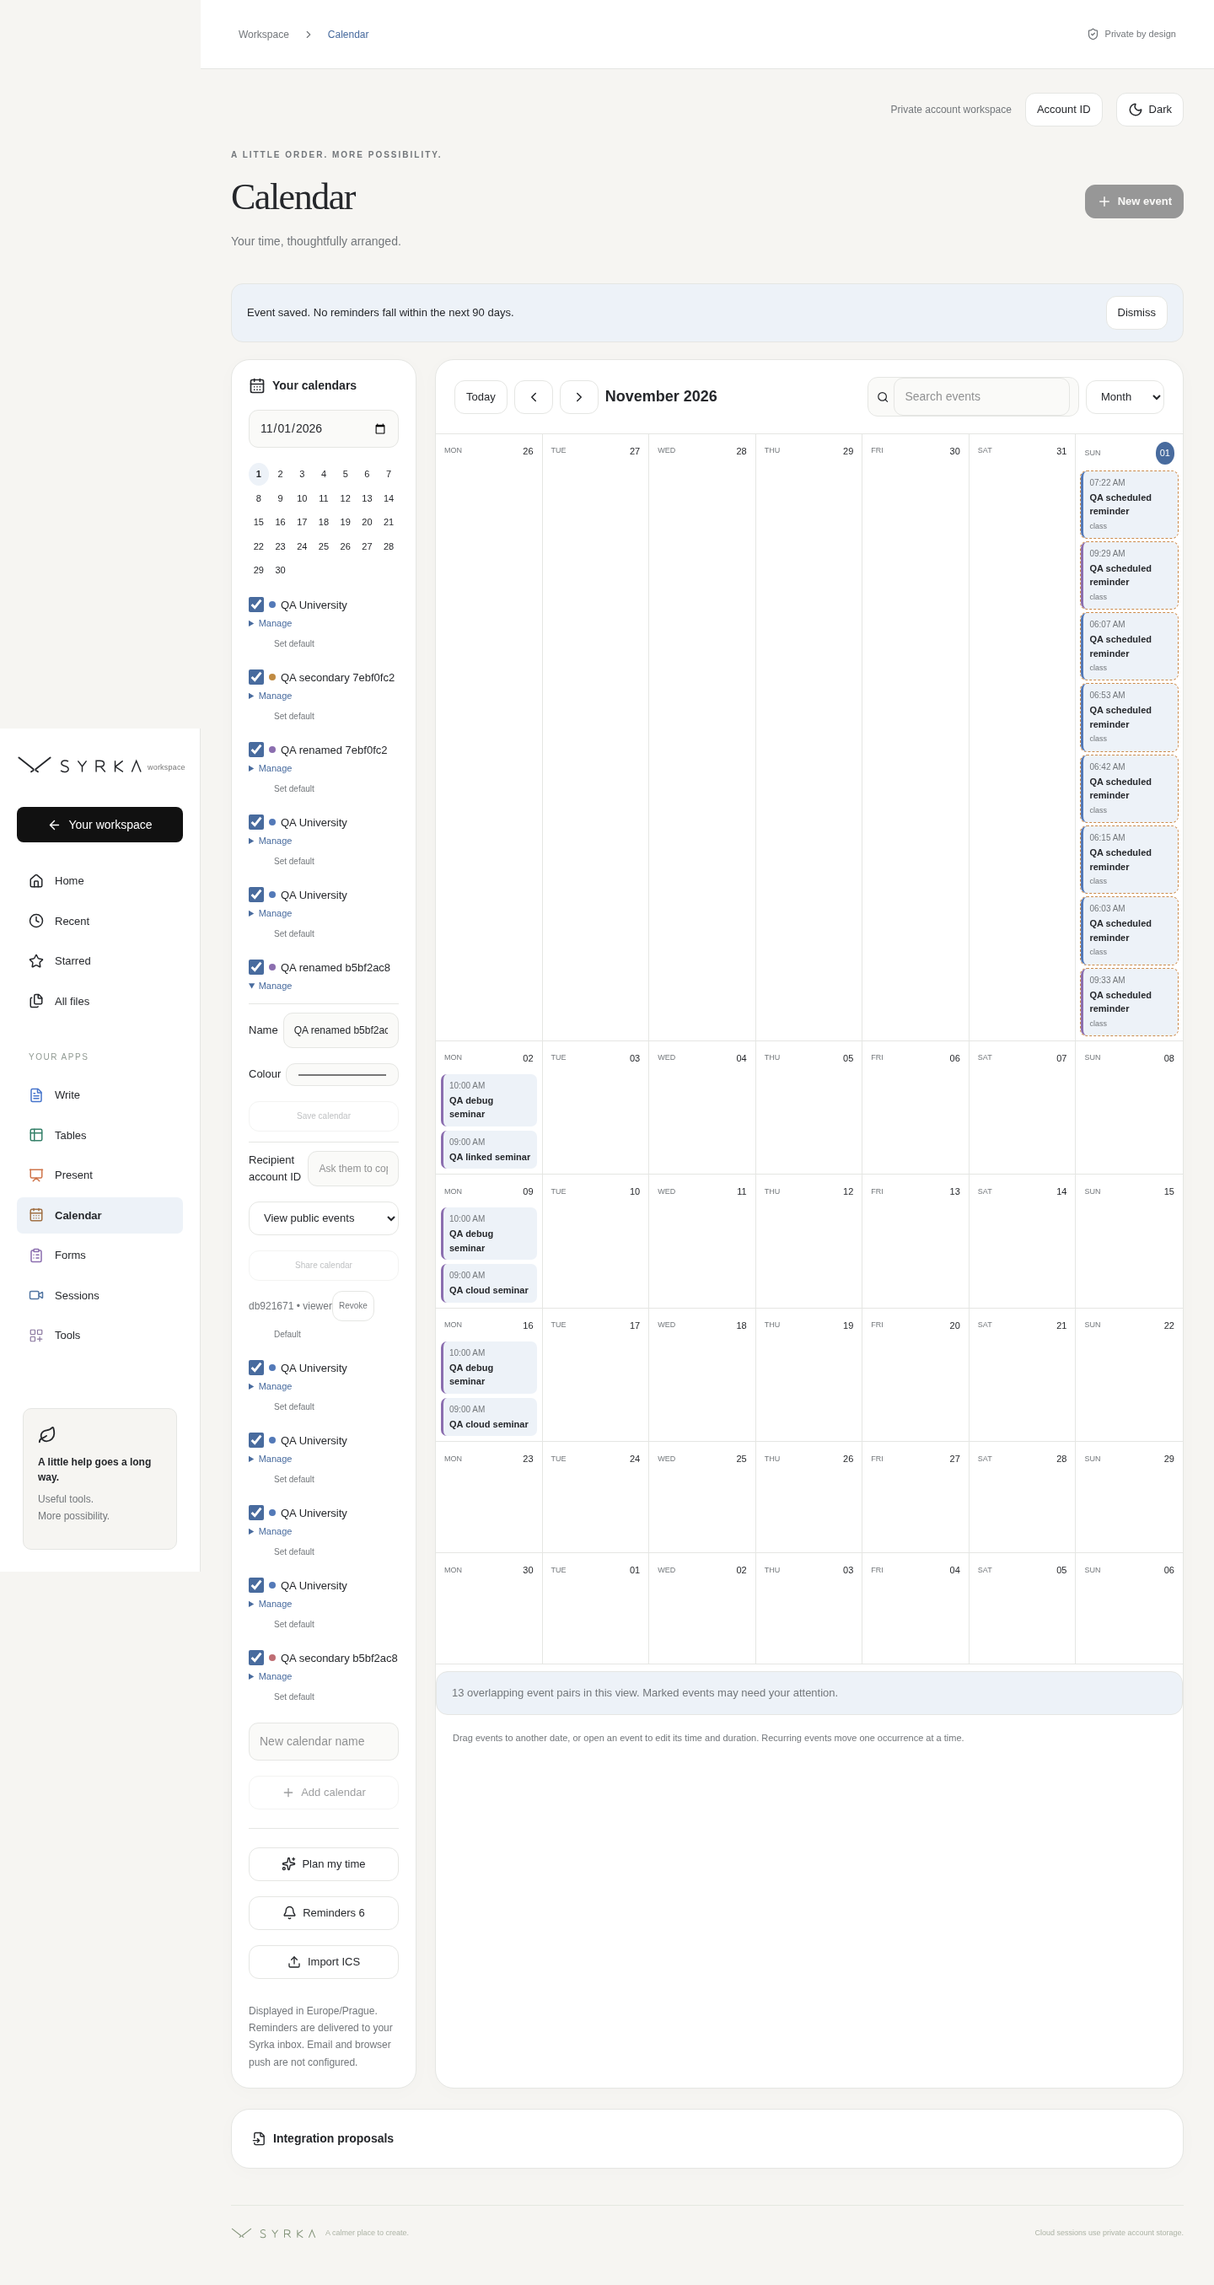
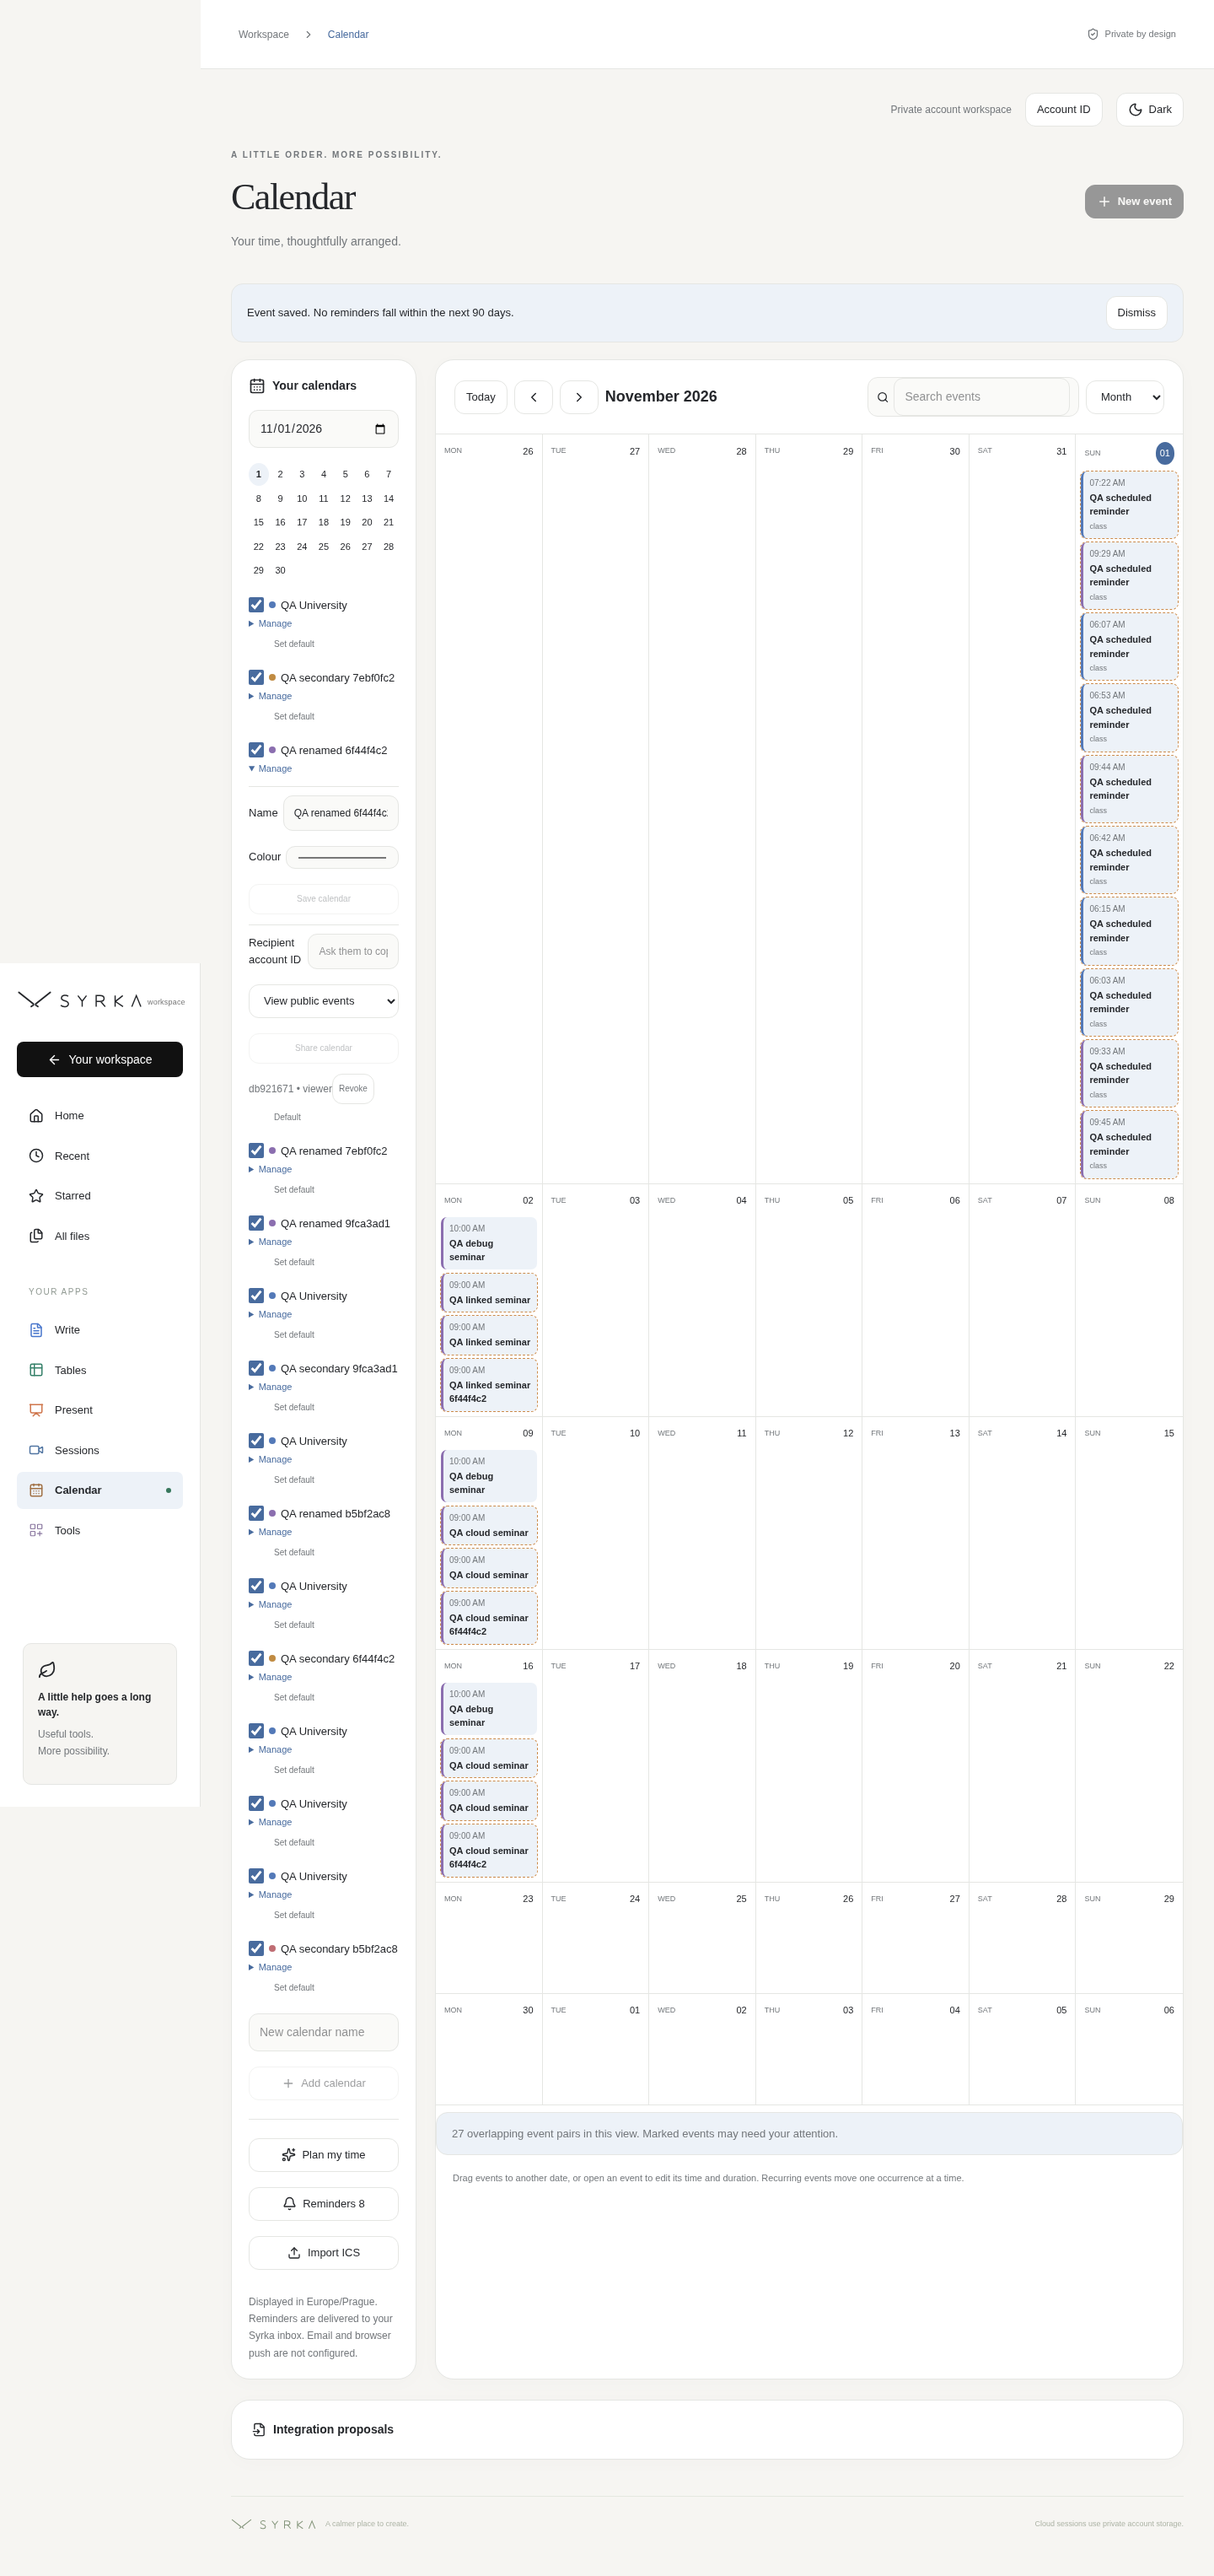
Record hosted Calendar and Forms acceptance evidence

diff --git a/docs/native/release.md b/docs/native/release.md
@@ -1,8 +1,8 @@
 # Calendar & Forms Preview release verification
 
-Verification date: 1 November 2026. This is a functional initial release on `feature/calendar-forms`, stacked on the verified Sessions baseline `d87142ce8f832799f53d1f169124fcc2444398ae`. [Draft PR #5](https://github.com/tahirmahm/syrka-workspace/pull/5) targets `feature/sessions-notes`; neither draft PR is merged. Final tested source commit: `CODE_SHA_PENDING`.
+Verification date: 1 November 2026. This is a functional initial release on `feature/calendar-forms`, stacked on the verified Sessions baseline `d87142ce8f832799f53d1f169124fcc2444398ae`. [Draft PR #5](https://github.com/tahirmahm/syrka-workspace/pull/5) targets `feature/sessions-notes`; neither draft PR is merged. Final tested source commit: `9899bf0af3e5899257daf62c31f51f5b7e7c4493`.
 
-Preview entry points: [Calendar](https://syrka-calendar-forms-preview.vercel.app/workspace/calendar) and [Forms](https://syrka-calendar-forms-preview.vercel.app/workspace/forms). The alias belongs to the existing `syrka-workspace` Vercel project and is updated only to a ready, Git-linked feature deployment. Final deployment SHA and hosted acceptance remain to be recorded below. Production, `syrka.co` routing and the Sessions QA alias are unchanged.
+Preview entry points: [Calendar](https://syrka-calendar-forms-preview.vercel.app/workspace/calendar) and [Forms](https://syrka-calendar-forms-preview.vercel.app/workspace/forms). The alias belongs to the existing `syrka-workspace` Vercel project and is updated only to a ready, Git-linked feature deployment. The ready deployment and authenticated runtime both reported application SHA `9899bf0af3e5899257daf62c31f51f5b7e7c4493`; the complete hosted acceptance run passed on that immutable deployment. Production, `syrka.co` routing and the Sessions QA alias are unchanged.
 
 ## Delivered workflows
 
@@ -16,7 +16,7 @@ Calendar appears directly beneath Sessions in desktop/mobile navigation; Forms i
 
 | Check | Observed result |
 |---|---|
-| Lint, TypeScript and production build | Passed on the release candidate; final source SHA pending. |
+| Lint, TypeScript and production build | Passed on tested source `9899bf0`. |
 | Unit and database suite | 84 passed, including recurrence/DST, branching, format handling, RLS, broker signatures, immutable versions, retries and attachment permissions. |
 | Chromium browser regressions | 74 passed, covering the existing suite and six native-app tests. |
 | WebKit native-app regressions | 6 passed. |
@@ -24,8 +24,8 @@ Calendar appears directly beneath Sessions in desktop/mobile navigation; Forms i
 | Real Supabase core journey | Passed again with two temporary authenticated QA accounts and an unauthenticated mobile browser context: isolation, public submission, private upload/download, immutable versions, XLSX reopen and Tables snapshot. |
 | Durable reminders | Actual server cron inserted a due notification; repeated delivery did not duplicate it. Signed worker refill returned HTTP 200. |
 | Real Calendar management UI | Passed after correcting the self-lookup RLS `INSERT … RETURNING` issue: calendar creation/rename/default, recurrence exception and legitimate Sessions link. |
-| Actual Qwen provider API | Earlier hosted calls returned HTTP 200 from `qwen3.8-flash` with schema-valid calendar proposals and form drafts. No paid fallback. |
-| Complete hosted AI review/save journey | Pending final Preview run; API success alone is not recorded as full UI acceptance. |
+| Actual Qwen provider API | Final hosted calendar and form requests both returned HTTP 200, model `qwen3.8-flash`, with schema-valid output. No paid fallback. |
+| Complete hosted AI review/save journey | Passed: calendar count stayed unchanged before review, explicit approval saved one event; the generated form draft was edited/autosaved while its published version stayed unchanged. |
 
 Browser screenshots and viewport tests use automated browsers, including a 390 px mobile viewport. They are not physical iPhone/Android verification. No new physical-device calling/media test, external calendar OAuth connection, desktop Office application interoperability test or cross-app institutional integration is claimed by this release.
 
@@ -35,7 +35,9 @@ The target is the existing Workspace Supabase project `zguejzlseldovdssiumn`. Ch
 
 Public uploads use a separate private bucket, byte/type/size validation and response-bound capabilities. Pending filenames are withheld from owners until submission. Expired-object cleanup is restricted to Storage deletion operations, not read/list/sign access. Private recurrence overrides are filtered for viewers, and reminder replacement checks the current event revision under a database lock. Ten reviewed additive migrations are applied; INSERT/UPSERT RETURNING and forged-owner checks pass; see [security and operations](security.md).
 
-Reminders are durable **in-app** notifications, not email or OS push. Qwen uses Workspace's existing server-only general-purpose configuration, explicit processing consent, schema validation and Free Quota Only guards. Core editing remains usable when AI is unavailable. Temporary QA accounts, records, private fixture files and orphan uploads require cleanup before final acceptance is closed.
+Reminders are durable **in-app** notifications, not email or OS push. Qwen uses Workspace's existing server-only general-purpose configuration, explicit processing consent, schema validation and Free Quota Only guards. Core editing remains usable when AI is unavailable. Both isolated QA sessions were revoked, their two guarded QA users/owned records removed, and all 14 QA upload objects deleted through the real Storage API. The cleanup worker returned HTTP 200 with zero failures; database verification found zero remaining QA objects and zero garbage entries. Private fixture/key duplicates were removed from temporary files.
+
+The initial hosted rerun hit duplicate synthetic event titles left by earlier QA runs. The acceptance harness now uses unique titles; the full rerun passed. This was a test-fixture collision, not a calling or persistence failure. [Redacted machine-readable evidence](verification.json).
 
 ## Screenshots
 
@@ -46,6 +48,7 @@ Reminders are durable **in-app** notifications, not email or OS push. Qwen uses 
 | Forms desktop light/dark | [Light](images/forms-1440-light.png), [dark](images/forms-1440-dark.png) |
 | Forms mobile light/dark | [Light](images/forms-390-light.png), [dark](images/forms-390-dark.png) |
 | Real public submission | [Mobile form](images/respond-live-mobile.png), [receipt](images/respond-live-mobile-receipt.png) |
+| Actual cloud Calendar and reviewed AI | [Recurring cloud event](images/calendar-live-cloud.png), [approved schedule](images/calendar-ai-reviewed.png), [editable form draft](images/forms-ai-reviewed.png) |
 | Real responses and spreadsheet | [Response analysis](images/responses-live-desktop.png), [Tables snapshot](images/tables-live-snapshot.png) |
 
 These use synthetic QA material, not private customer documents or answers.
@@ -60,8 +63,8 @@ The newly supplied professional-suite and command/source documents were reviewed
 
 ## Final sign-off fields
 
-- Tested code SHA: `CODE_SHA_PENDING`.
-- Pushed commit and ready Git Preview: pending final synchronization.
-- Final hosted Calendar/Forms/AI acceptance and worker check: pending.
-- Temporary QA cleanup: pending.
+- Tested code SHA: `9899bf0af3e5899257daf62c31f51f5b7e7c4493`.
+- Pushed; Git-linked Preview READY, authenticated runtime SHA matched.
+- Hosted Calendar/Forms/AI acceptance: passed. Signed refill HTTP 200, ten reminder masters processed, zero failures; actual scheduled notifications observed.
+- Temporary QA cleanup: complete (two users, owned records and 14 Storage objects).
 - Production merge/promotion: not requested and not performed.

diff --git a/docs/native/security.md b/docs/native/security.md
@@ -49,3 +49,5 @@ Migration filenames match the actual hosted migration history versions returned 
 The eighth migration scopes expired-upload cleanup to Storage delete operations. The ninth adds server-owned modification timestamps, atomic default-calendar selection, and a permission-filtered exception projection: private occurrence overrides cannot reveal content to calendar viewers. Occurrence changes advance the parent revision and invalidate pending reminders. Reminder refill locks and checks the expected event revision before replacing jobs, preventing stale requests from reintroducing revoked or outdated event details.
 
 The tenth migration fixes INSERT/UPSERT RETURNING authorization by evaluating newly created calendar/event rows from their own ownership/visibility columns and the existing parent calendar. STABLE helpers that look up the newly inserted row cannot authorize its RETURNING result within the same statement. RLS remains enabled; real RETURNING and forged-owner tests cover the normal UI path.
+
+Final hosted verification: signed refill returned HTTP 200 (ten reminder masters, zero failures). The real Storage cleanup removed all 14 isolated QA objects, and a database lookup confirmed none remained; the garbage queue was empty. Both QA sessions/users and their owned synthetic records were removed. No customer records were deleted.
